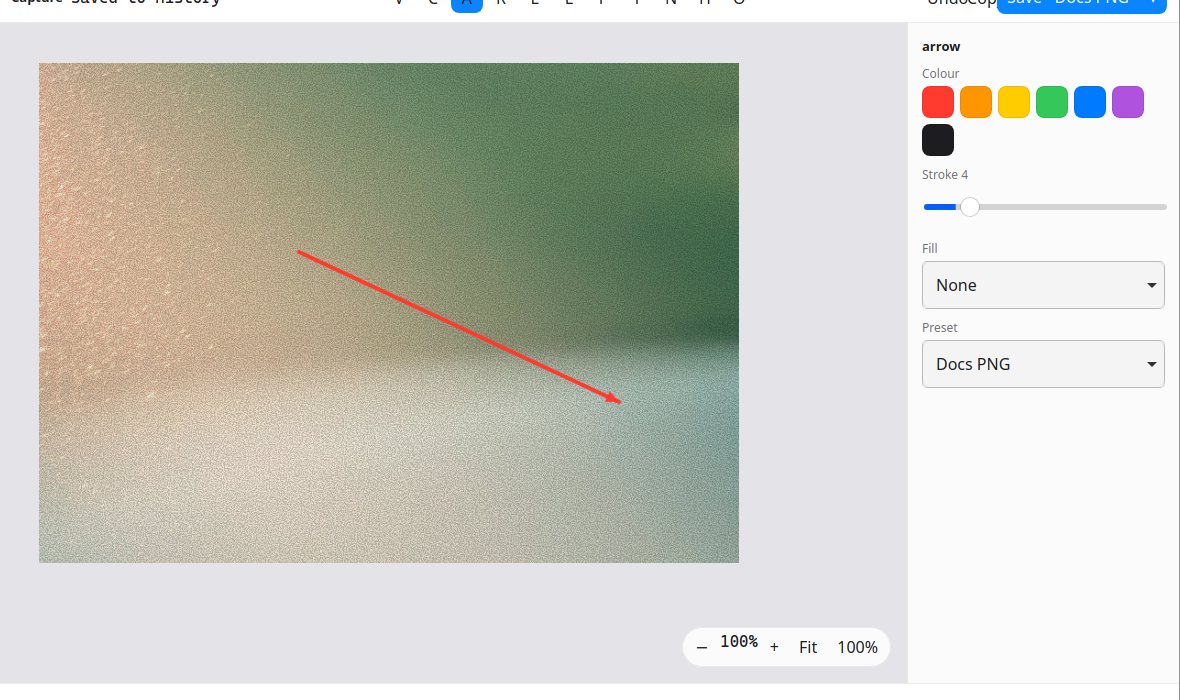
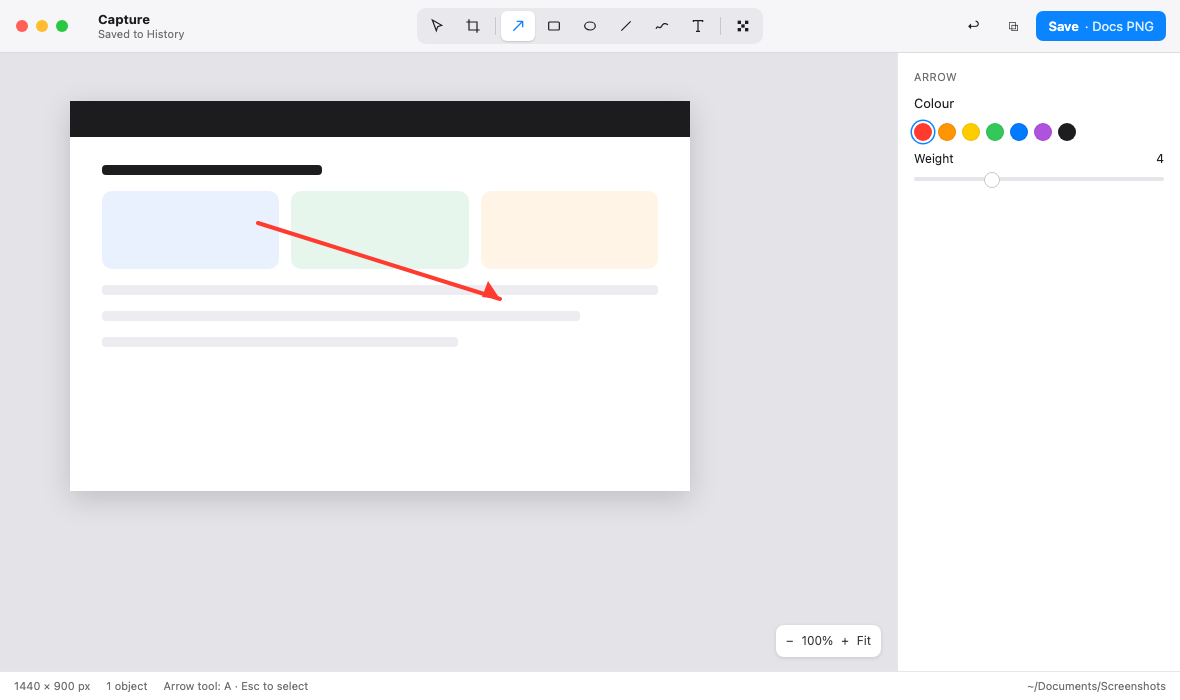
Publish an accurate README and release macOS builds from main.
The public page described Windows, Homebrew, and Pro as if they shipped. Releases stay unsigned until a Developer ID is added, and main now needs a review before it changes.

diff --git a/README.md b/README.md
@@ -1,156 +1,137 @@
 <div align="center">
 
-<img src="docs/assets/logo.svg" width="96" height="96" alt="Shotsmith logo: an anvil with a dashed selection frame">
+<img src="docs/assets/icon.png" width="96" height="96" alt="Shotsmith logo: a white anvil under an orange selection frame">
 
 # Shotsmith
 
-**Screenshots, forged in two keystrokes.**
-The free, open-source screenshot and annotation tool for **Mac and Windows**.
+A free, open-source screenshot tool for the Mac menu bar.
 
 [![Licence: MIT](https://img.shields.io/badge/licence-MIT-black)](LICENSE)
-![Platforms](https://img.shields.io/badge/platforms-macOS%2014%2B%20%7C%20Windows%2011-black)
-![Built with](https://img.shields.io/badge/built%20with-Rust%20%2B%20Tauri%202-black)
-[![Free forever](https://img.shields.io/badge/free-forever-FF9F0A)](#free-forever)
+![Status](https://img.shields.io/badge/status-v0.1%20macOS-black)
+![Pro](https://img.shields.io/badge/Pro-coming%20soon-FF9F0A)
 
-[Download](https://github.com/Smithey/shotsmith/releases) · [Website](https://shotsmith.app) · [Docs](docs/) · [Roadmap](#roadmap) · [Contributing](CONTRIBUTING.md)
+[Releases](https://github.com/Smithey/shotsmith/releases) · [Website](https://shotsmith.app) · [Roadmap](docs/ROADMAP.md) · [Contributing](CONTRIBUTING.md)
 
-<img src="docs/assets/hero.png" width="860" alt="Shotsmith editor with an annotated screenshot and the donut quick-action menu">
+<img src="docs/assets/editor.png" width="860" alt="The Shotsmith editor: a capture, an arrow, and the colour and weight controls">
 
 </div>
 
----
+Shotsmith 0.1 is a menu bar app for macOS 14 and newer. Press the shortcut, drag a region, and the capture is on the clipboard and in History. You can annotate it, save a PNG, or pin it above your other windows.
 
-## Why Shotsmith?
+This repository is the whole free app, under the MIT licence. Nothing in it is a trial, and nothing here will be moved behind a paywall.
 
-- **Free forever.** Every core feature, no trial, no watermark, no account.
-- **Private by default.** No telemetry, no network calls, works fully offline.
-- **Fast.** Hotkey → capture → copied in two keystrokes, using the donut.
-- **Same app everywhere.** One design on Mac and Windows; your presets and `.shotsmith` files move between them.
-- **Open source.** MIT-licensed. Read it, build it, fork it.
+Windows is not shipping yet. The interface is shared, and a Windows build is on the roadmap.
 
-## Features
+## In this version
 
-| | |
-|---|---|
-| **Capture** | Region with pixel loupe, window, full screen, repeat last region, timed, scrolling |
-| **The donut** | Radial quick-action menu at your cursor: copy, save, annotate, pin, share, copy text, presets |
-| **Editor** | Arrow, rectangle, ellipse, line, freehand, text, callout, step counter, highlight, magnify, crop, one key each |
-| **Redaction** | Pixelate, blur or block; secret detection finds emails, phone numbers, card numbers and API keys |
-| **Beautify** | Backdrops, padding, frames, shadows and size presets |
-| **Measure** | Rulers, element sizes, spacing, colour picker |
-| **Live text** | Select and copy text from any capture; copy code as code |
-| **Presets** | Format, scale, folder, file-name pattern, effects, bound to the donut or a shortcut |
-| **History & pins** | Searchable history; float captures above your work |
-| **Automation** | `shotsmith` CLI, `shotsmith://` URL scheme, watch folders; Apple Shortcuts on Mac |
+<img src="docs/assets/history.png" width="720" alt="History, with recent captures and search">
 
-## Install
+- **Capture.** Region, window, full screen, repeat the last region, and a timer. A loupe helps line up the region.
+- **Donut.** After a capture, a wheel at the cursor can copy, save, open the editor, or pin.
+- **Editor.** Select, crop, arrow, rectangle, ellipse, line, freehand, text, callout, step counter, highlight, obfuscate, magnify, and an eyedropper. Shapes stay editable after you place them, including after you close the window. Undo and redo. Copy, Save PNG, and Save As.
+- **Obfuscate.** Pixelate, blur, or a solid block, drawn by hand. It is flattened when you export.
+- **Presets.** Format, scale, folder, and a file name pattern. The default preset is what Save uses.
+- **History and pins.** Searchable history. Editing a capture updates its thumbnail. Pins float a capture above other windows.
+- **Settings.** General, Capture, Shortcuts, Presets, Donut, Destinations, Advanced, and About. Shortcuts are click-to-record, with Mac symbols. Appearance follows the system, or you can lock light or dark.
+- **Several editors.** Each capture opens its own window. Right-click the Dock icon to move between Settings, History, and the editors.
 
-**macOS 14+** (Apple silicon and Intel)
+<img src="docs/assets/settings.png" width="720" alt="Settings, open on General">
 
-```sh
-brew install --cask shotsmith
-```
+## Not in this version
 
-**Windows 11** (x64 and ARM64)
+These are visible in the menu or Settings so the shape of the app is clear. Choosing one tells you it is later, rather than doing nothing:
 
-```powershell
-winget install Shotsmith.Shotsmith
-```
+- Scrolling capture
+- Copy text from the screen, and text selection inside a capture
+- Finding secrets in a capture (emails, keys, card numbers)
+- Beautify: padding, frames, backgrounds
+- Measure: sizes and spacing
+- Share sheet, print, and Open in
+- A `shotsmith` command, a `shotsmith://` link, watch folders, and Apple Shortcuts
+- Plugins and upload destinations
+- Homebrew, winget, and a Windows build
+- An auto-updater
 
-Or download the latest signed build from [Releases](https://github.com/Smithey/shotsmith/releases).
+## Shotsmith Pro
 
-On first launch on a Mac, allow **Screen Recording** when asked (System Settings › Privacy & Security).
+Pro is **not for sale**. There is no account, no trial, and no checkout.
 
-## Default shortcuts
+It will be optional, and it will live in a separate private repository. Official builds can include it later. A build you make from this repository is the free app only.
 
-| Action | Mac | Windows |
+What Pro is for, once it exists:
+
+- Share links you can expire or password-protect
+- A step-by-step guide recorder
+- Redaction that finds faces and secrets for you
+- Snapping to elements on screen, visual diff, and search across your captures
+- Translate, alt text, and shared style kits
+- Teams: shared kits and one invoice
+
+Pricing is not final. The working figure is about $3.99 a month or $36 a year, with a discount for teams, but nothing is being charged yet.
+
+## Shortcuts
+
+| Action | Mac | Windows, when that build exists |
 |---|---|---|
 | Region | `⌘⇧2` | `Ctrl+Shift+2` |
 | Repeat last region | `⌘⇧1` | `Ctrl+Shift+1` |
 | Window | `⌥⌘⇧2` | `Ctrl+Alt+Shift+2` |
 | Full screen | `⌃⌘⇧2` | `Ctrl+Win+Shift+2` |
-| Copy text from screen | `⌥⌘⇧O` | `Ctrl+Alt+Shift+O` |
+| History | `⌘Y` | `Ctrl+H` |
 
-All shortcuts can be changed in Settings.
-
-## Free forever
-
-Shotsmith is **open core**. This repository is the complete free app, MIT-licensed, and nothing in it will ever move behind a paywall.
-
-An optional **Shotsmith Pro** plan adds cloud and team features and funds development, code signing and hosting:
-
-| | Free | Pro | Teams (5+ seats) |
-|---|---|---|---|
-| Price | **$0 forever** | **$3.99/month** or $36/year | **15% off Pro** per seat |
-| Every core feature above | ✓ | ✓ | ✓ |
-| Share links (expiry, password) · 5 GB | | ✓ | ✓ |
-| Step-guide recorder | | ✓ | ✓ |
-| Smart auto-redaction (faces, per preset) | | ✓ | ✓ |
-| Element snapping · visual diff · search by meaning | | ✓ | ✓ |
-| Translate · alt text · style kits | | ✓ | ✓ |
-| Shared style kits, one invoice | | | ✓ |
-
-Pro has a 14-day free trial with no card. Prices in USD; tax added where required. Pro code lives in a separate private repository and is only included in official builds.
+You can change these in Settings.
 
 ## Privacy
 
-- The free app makes **no network requests** (the optional update check is off until you turn it on).
-- Redaction, OCR and search run **on your computer**.
-- With Pro, only images you choose to share or sync are uploaded. See [PRIVACY.md](PRIVACY.md).
+The free app does not phone home. There is no telemetry. Redaction and any later text recognition run on your Mac. See [PRIVACY.md](PRIVACY.md).
 
-## Build from source
+On first launch, macOS asks for Screen Recording. Some actions also need Accessibility. Both stay in System Settings, Privacy & Security.
 
-Requirements: [Rust](https://rustup.rs) (stable), Node.js 20+ with pnpm, and the [Tauri 2 prerequisites](https://v2.tauri.app/start/prerequisites/) for your OS.
+## Install
+
+Signed downloads will appear on [Releases](https://github.com/Smithey/shotsmith/releases) after a push to `main`, once the Apple signing secrets below are set. Until then, build it yourself. An ad-hoc build opens on the Mac that built it. Other Macs will refuse it until it is signed with a Developer ID and notarized.
 
 ```sh
 git clone https://github.com/Smithey/shotsmith.git
 cd shotsmith
 pnpm install
-pnpm tauri dev        # run in development
-pnpm tauri build      # signed builds need your own certificates
-cargo test --workspace
-```
-
-Self-built copies are the full free app, without Pro.
-
-### Test on your Mac
-
-Run this on macOS 14 or newer, with Xcode Command Line Tools installed (`xcode-select --install`).
-
-```sh
-pnpm install
 pnpm tauri build
 open target/release/bundle/macos/Shotsmith.app
 ```
 
-The `.app` is ad-hoc signed, so it opens on the Mac that built it. A disk image is written beside it at `target/release/bundle/dmg/`. Shotsmith runs from the menu bar. On the first capture, allow Screen Recording in System Settings, Privacy & Security.
+You need Rust (stable), Node.js 20 or newer, pnpm, and the [Tauri 2 prerequisites](https://v2.tauri.app/start/prerequisites/). The disk image is written to `target/release/bundle/dmg/`.
 
-## Project layout
+## Signing releases
 
-```
-crates/      Rust core: capture, document model, renderer, OCR, history, CLI
-app/         Tauri 2 shell: windows, tray/menu bar, shortcuts, IPC
-ui/          React + TypeScript interface (overlay, donut, editor, settings)
-mac-intents/ Apple Shortcuts integration (Mac only)
-docs/        User and developer docs
-```
+Other Macs only open the app if it is signed with a **Developer ID Application** certificate and notarized by Apple. That needs:
 
-## Roadmap
+1. An [Apple Developer Program](https://developer.apple.com/programs/) membership ($99 a year). An iOS distribution certificate is a different certificate and is not used here.
+2. A **Developer ID Application** certificate, created for the same team, exported as a `.p12` (certificate plus private key).
+3. An app-specific password for your Apple ID, from [account.apple.com](https://account.apple.com), so the release job can notarize. An App Store Connect API key works instead.
+4. These [Actions secrets](https://github.com/Smithey/shotsmith/settings/secrets/actions) on this repository:
 
-- [x] v0.1: capture, donut, editor, presets, history (Mac + Windows)
-- [ ] v0.2: pins, OCR, secret detection, effects, share/print
-- [ ] v0.3: beautify, measure, live text, scrolling capture, CLI, watch folders
-- [ ] v1.0: plugins, localisation, updater, Homebrew + winget
-- [ ] Pro: share links, step guides, smart redaction and more
+| Secret | Value |
+|---|---|
+| `APPLE_CERTIFICATE` | The `.p12` file, base64-encoded (`base64 -i Certificate.p12`) |
+| `APPLE_CERTIFICATE_PASSWORD` | Password for that `.p12` |
+| `APPLE_SIGNING_IDENTITY` | `Developer ID Application: Your Name (TEAMID)` |
+| `APPLE_TEAM_ID` | The 10-character Team ID |
+| `APPLE_ID` | The Apple ID email |
+| `APPLE_PASSWORD` | The app-specific password |
+
+A push to `main` then builds an Apple silicon app, signs and notarizes it when those secrets exist, and attaches the disk image to a GitHub Release. Without the secrets, the same workflow still publishes a build, and that build is only ad-hoc signed.
 
 ## Contributing
 
-Contributions are welcome: bug reports, translations, docs and code. Please read [CONTRIBUTING.md](CONTRIBUTING.md). Commits need a [Developer Certificate of Origin](https://developercertificate.org/) sign-off (`git commit -s`).
+Pull requests are welcome from anyone. `main` only changes through a pull request, and it needs a review from [@Smithey](https://github.com/Smithey) before it merges.
 
-## Support the project
+Bug reports, translations, docs, and code all fit. Read [CONTRIBUTING.md](CONTRIBUTING.md). Commits need a [Developer Certificate of Origin](https://developercertificate.org/) sign-off (`git commit -s`).
 
-The best way to support Shotsmith is to [try Pro](https://shotsmith.app/#pricing) or tell a friend. Starring the repo helps others find it.
+```sh
+cargo test --workspace
+pnpm typecheck
+```
 
 ## Licence
 
-The Shotsmith app in this repository is released under the [MIT Licence](LICENSE). Shotsmith Pro is proprietary and not part of this repository. “Shotsmith” and the anvil logo are trademarks of their owner.
+The app in this repository is [MIT](LICENSE). Shotsmith Pro is not in this repository. “Shotsmith” and the anvil logo are trademarks of their owner.

diff --git a/docs/ROADMAP.md b/docs/ROADMAP.md
@@ -1,19 +1,23 @@
 # Roadmap
 
-The checklist in the README is the public plan. This page is the same plan in a little more detail.
+The README is the short version. This is the same plan with a bit more detail.
 
-## v0.1
+## v0.1, now
 
-Menu bar app, global shortcuts, region, window, full screen, repeat last region, loupe, timer, donut, editor, clipboard and save, presets, history, pin windows, settings, and onboarding.
+Mac menu bar app on macOS 14 and newer.
 
-## v0.2
+Region, window, full screen, repeat last region, loupe, and a timer. The donut after a capture. The editor, including crop and shapes you can edit again later. Obfuscate by hand. Presets, clipboard, and save. History, with thumbnails that follow edits. Pins. Settings, including recorded shortcuts. Onboarding for Screen Recording and Accessibility. More than one editor window.
 
-Copy text from a capture, secret detection, effects, share, print, and Open in.
+## Next
 
-## v0.3
-
-Beautify, measure, live text, scrolling capture, a `shotsmith` command, a `shotsmith://` URL scheme, and watch folders.
+Copy text from a capture, and from the screen. Scrolling capture. Effects, share, print, and Open in. Beautify and measure. A `shotsmith` command, a `shotsmith://` link, watch folders, and Apple Shortcuts.
 
 ## v1.0
 
-Plugin destinations, localisation, an opt-in updater, Homebrew and winget, Mac Shortcuts, and an accessibility pass.
+Plugin destinations, localisation, an opt-in updater, Homebrew and winget, a Windows build, and an accessibility pass.
+
+## Pro
+
+Not for sale. No account and no trial yet.
+
+When it exists, it stays in the private repository and is only added to official builds. Planned pieces: share links, a step-guide recorder, automatic redaction, element snapping, visual diff, search, translate, alt text, style kits, and teams.

diff --git a/CONTRIBUTING.md b/CONTRIBUTING.md
@@ -1,6 +1,6 @@
 # Contributing
 
-Bug reports, translations, docs, and code are welcome. This repository is the free Shotsmith app under the MIT licence.
+Bug reports, translations, docs, and code are welcome. Anyone can open a pull request. `main` accepts changes through a pull request, and it needs a review from [@Smithey](https://github.com/Smithey) before it merges. This repository is the free Shotsmith app under the MIT licence.
 
 Commits need a [Developer Certificate of Origin](https://developercertificate.org/) sign-off:
 
@@ -9,6 +9,14 @@ git commit -s
 ```
 
 That certifies you can contribute the change under the project licence.
+
+## What belongs here
+
+Capture, the editor, presets, history, and the other free features in [docs/ROADMAP.md](docs/ROADMAP.md). Extension traits live in `crates/extensions`. The free app ships empty implementations.
+
+## What does not belong here
+
+Shotsmith Pro (accounts, billing, share links, and the other paid features) lives in the private `shotsmith-pro` repository. Do not open a pull request that adds that code. Anything committed here is MIT and can be forked.
 
 ## Checks
 
